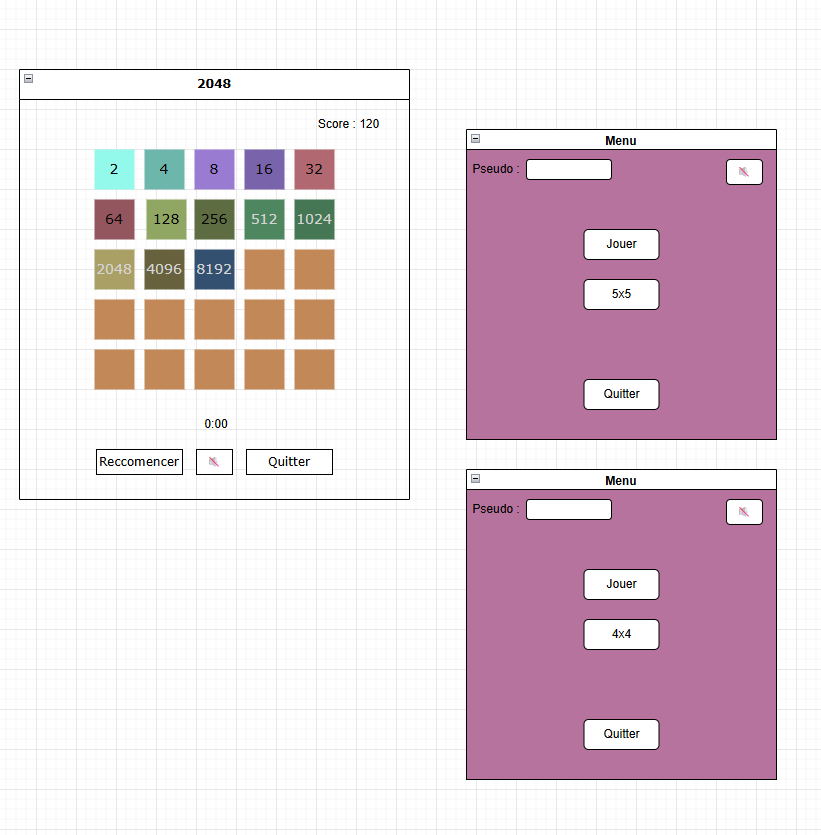
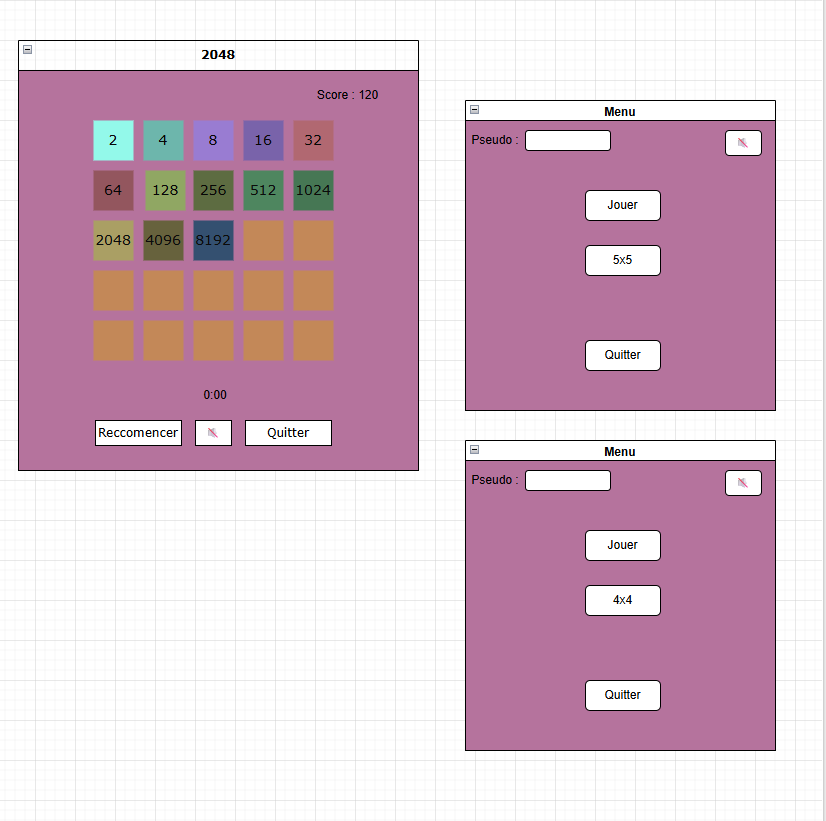
feat front.py : - add a grid 5x5 - all different color for the block - button for quiting
feat back.py :
- add a list for the grid
- add a list for color

feat menu.py :
- add a background color
- link to the main
- button for changing the grid
- quit button
- a name entry

diff --git a/front.py b/front.py
@@ -1,50 +1,46 @@
-# Auteur: Amil
+# Auteur : Amil
 # nom du programe :2048
 # Date :06.02.26
 #version: 0.0
 
 #------------import----------
-import random
-import time
 from tkinter import *
 from back import *
-from winsound import *
 
 
-#----------Principal window-------
+
+
+
+# ----------Game window-------
 window = Tk()
 window.geometry("700x850")
-window.resizable(False,False)
+window.resizable(False, False)
 window.title("2048")
+window.config(bg="#B5739D")
+
 
 #----------Label----------
 
 #title of the program
-lbl_title = Label(window,text="2048",font=("Verdana 25 bold"))
+lbl_title = Label(window,text="2048",font=("Verdana 25 bold"),bg="#B5739D")
 lbl_title.pack()
 
 #-----------Frame------------------
-all_frm = Frame(window)
+all_frm = Frame(window,bg="#B5739D")
 all_frm.pack()
-frm_btn = Frame(all_frm)
+frm_btn = Frame(all_frm,bg="#B5739D")
 frm_btn.pack(side="bottom",fill="x",pady=(10,0))
 
-#Label for the timer
-lbl_timer = Label(frm_btn,font=("Arial 15 bold"))
-lbl_timer.pack(pady=10)
 #------------Variable---------------
-#variable for the second in the function timer
-second = 0
-#variable for the minute in the function timer
-minute = 0
-
 
 
 #for the grid
-labels = [[None,None,None,None,None],[None,None,None,None,None],[None,None,None,None,None],[None,None,None,None,None],[None,None,None,None,None]]
+labels = [[None,None,None,None,None],
+          [None,None,None,None,None],
+          [None,None,None,None,None],
+          [None,None,None,None,None],
+          [None,None,None,None,None]]
 
-#list for the random number 2 = 80% and 4 = 20% chance of spawning
-rand_num = [2,2,2,2,4]
 
 
 
@@ -69,7 +65,7 @@ def display():
 
 #place  the lines in the grid
 for line in range((len(block_in_game))):
-    frm =Frame(all_frm)
+    frm =Frame(all_frm,bg="#B5739D")
     frm.pack(pady=5)
 
     #place  the columns in the grid
@@ -78,22 +74,14 @@ for line in range((len(block_in_game))):
         labels[line][col].pack(side=LEFT,padx=10,pady=10)
 
 
-#Function for spawning random blocks in the grid
-def new_block_spawn():
-    random_block = 1
-    while not random_block == 0:
-        line_spawn = random.randint(0,3)
-        col_spawn = random.randint(0,3)
-        random_block = block_in_game[line_spawn][col_spawn]
-        if random_block == 0:
-            block_in_game[line_spawn][col_spawn] = random.choice(rand_num)
 #-------------------Button-----------------
-#bouton pour reccomencer
-btn_restart = Button(frm_btn,text="Recommencer",width=12,font=("Arial 15 bold"),command="restart")
-btn_restart.pack(padx=(0,5),side=LEFT)
+#bouton pour recommencer
+btn_restart = Button(frm_btn,text="Recommencer",width=12,font=("Comfortaa 15 bold"),command="restart")
+btn_restart.pack(padx=(0,5),side="left")
+
 #bouton pour quitter
-btn_quit = Button(frm_btn,text="Quitter",width=12,font=("Arial 15 bold"),command=quit)
-btn_quit.pack(side=RIGHT)
-#bouton pour couper le son du jeux
-btn_mute = Button(frm_btn,text="Couper le son",width=12,font=("Arial 15 bold"),command="mute")
-btn_mute.pack()
+btn_quit = Button(frm_btn,text="Quitter",width=12,font=("Comfortaa 15 bold"),command=quit)
+btn_quit.pack(side="right")
+
+
+

diff --git a/menu.py b/menu.py
@@ -1,0 +1,76 @@
+# Auteur: Amil
+# nom du programe :2048
+# Date :06.02.26
+
+from tkinter import *
+import subprocess
+
+#----------Menu window-------
+menu = Tk()
+menu.geometry("500x500")
+menu.resizable(False,False)
+menu.title("2048")
+menu.config(bg="#B5739D")
+
+
+#-----------------Variable---------------
+
+config_grid = 0
+#---------------Function----------------------
+#launch the main.py file
+def launch():
+    subprocess.call(["python","main.py"])
+
+#if I click on the grid button I will change my grid to 4x4
+def size():
+    global config_grid
+    if config_grid == 0:
+        btn_grid.config(text="4x4")
+        config_grid +=1
+    elif config_grid == 1:
+        btn_grid.config(text="5x5")
+        config_grid -=1
+
+
+#take the name entry and take it for the title
+def hello(event):
+    keys = event.keysym
+    title = ent_name.get()
+
+    if keys=="Return":
+        lbl_title.config(text=f"Bienvenue {title} !",font="Comfortaa 32 bold")
+
+
+menu.bind('<Key>', hello) #treat the keys
+
+
+
+
+#-----------------Name---------------
+frm_name = Frame(menu,bg="#B5739D")
+frm_name.pack(anchor="nw",expand=True,pady=10)
+
+lbl_name = Label(frm_name,text="Nom :",font="Comfortaa 15 bold",bg="#B5739D")
+lbl_name.pack(side="left")
+
+ent_name = Entry(frm_name,font="Comfortaa 15 bold",width=8)
+ent_name.pack(side="right")
+#-----------------Title---------------
+lbl_title = Label(menu,bg="#B5739D",text="Bienvenue !",font="Comfortaa 32 bold")
+lbl_title.pack()
+#-----------------Button---------------
+frm_btn = Frame(menu,bg="#B5739D")
+frm_btn.pack(pady=(150,0))
+
+btn_launch = Button(frm_btn,text="Jouer",relief="raised",font="Comfortaa 15 bold",width=15,command=launch)
+btn_launch.pack(pady=30)
+
+btn_grid = Button(frm_btn,text="5x5",font="Comfortaa 15 bold",width=15,command=size)
+btn_grid.pack()
+
+btn_quit = Button(menu,text="Quitter",relief="raised",font="Comfortaa 15 bold",width=15,command=menu.quit)
+btn_quit.pack(pady=30)
+
+#-----------------Mainloop---------------
+menu.mainloop()
+

diff --git a/back.py b/back.py
@@ -4,13 +4,14 @@
 #version: 0.0
 
 
-
+#grid for example of all the color
 block_in_game= [[0,2,4,8,16],
                 [32,64,128,256,512],
                 [1024,2048,4096,8192,0],
                 [0,0,0,0,0],
                 [0,0,0,0,0]]
 """
+#the real grid
 block_in_game= [[0,0,0,0,0],
                 [0,0,0,0,0],
                 [0,0,0,0,0],

diff --git a/main.py b/main.py
@@ -5,6 +5,10 @@
 
 from front import *
 
+#display the grid
+display()
 
-new_block_spawn()
+
+
+#the main loop of the game
 mainloop()
